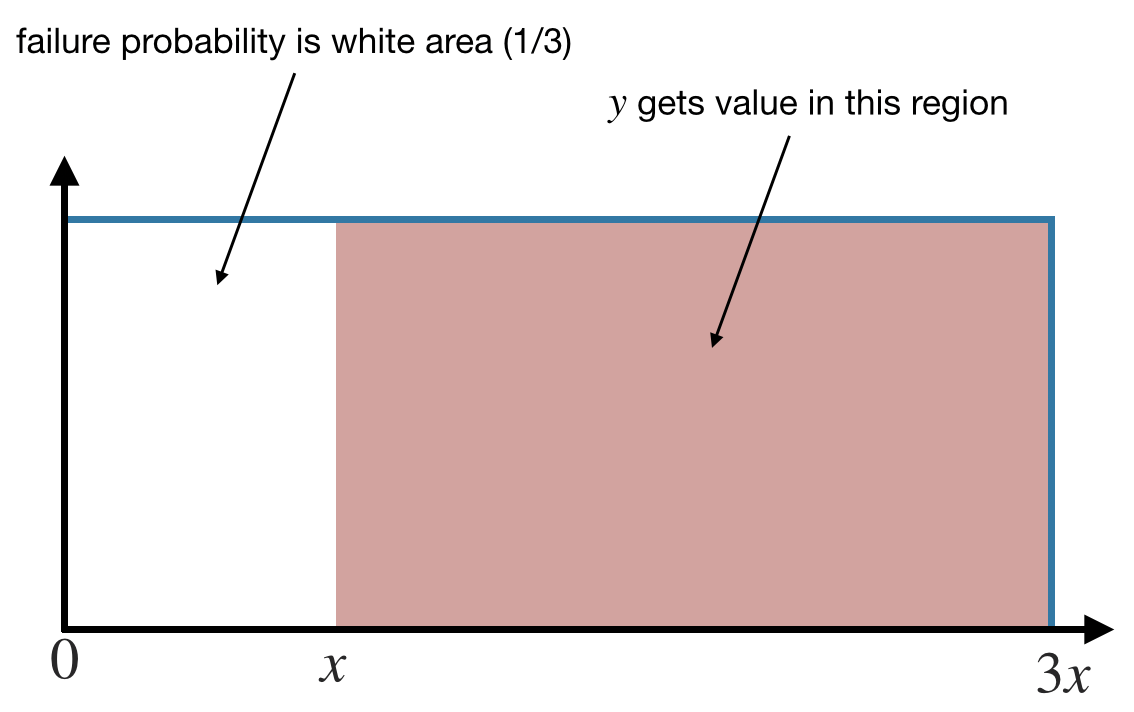
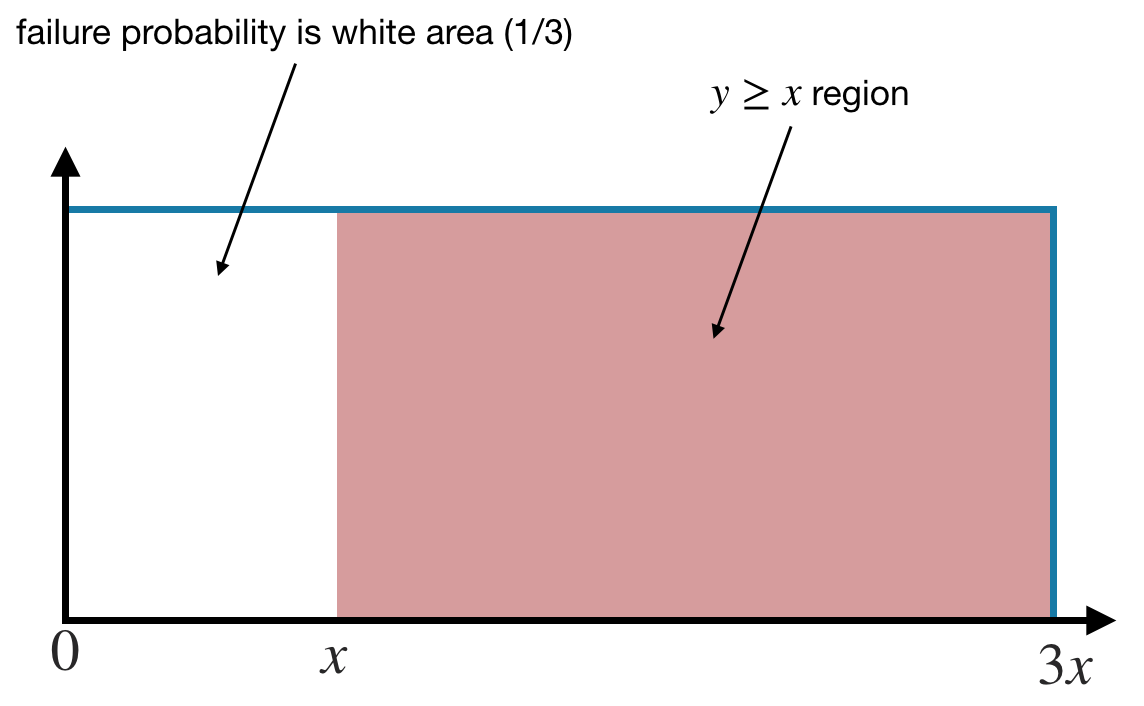
minor

diff --git a/2019/07/15/smt-probability/index.html b/2019/07/15/smt-probability/index.html
@@ -62,7 +62,7 @@ Take this program:</p>
     <span class="k">return</span> <span class="n">y</span>
 </code></pre></div></div>
 
-<p>If we’re working with infinite-precision integers, the following Hoare triple is valid—a positive input results in a positive output.</p>
+<p>If we’re working with infinite-precision integers, the following Hoare triple is valid — a positive input results in a positive output.</p>
 
 <script type="math/tex; mode=display">\vdash \{x > 0\}  ~f(x)~ \{y > 0\}</script>
 
@@ -101,7 +101,7 @@ In our example, the proof relies on the obvious fact that $y \geq x$ with a prob
 
 <p>If we know this fact, we can transform the program into a non-deterministic version that <em>tracks probability of failure</em>:</p>
 
-<div class="language-python highlighter-rouge"><div class="highlight"><pre class="highlight"><code><span class="k">def</span> <span class="nf">f_new</span><span class="p">(</span><span class="n">x</span><span class="p">):</span>
+<div class="language-python highlighter-rouge"><div class="highlight"><pre class="highlight"><code><span class="k">def</span> <span class="nf">f_nondet</span><span class="p">(</span><span class="n">x</span><span class="p">):</span>
     <span class="n">y</span> <span class="o">=</span> <span class="n">pick</span> <span class="n">a</span> <span class="n">value</span> <span class="ow">in</span> <span class="p">[</span><span class="n">x</span><span class="p">,</span><span class="o">...</span><span class="p">,</span><span class="mi">3</span><span class="o">*</span><span class="n">x</span><span class="p">]</span>
     <span class="n">w</span> <span class="o">=</span> <span class="mi">1</span><span class="o">/</span><span class="mi">3</span>
     <span class="k">return</span> <span class="n">y</span><span class="p">,</span><span class="n">w</span>
@@ -119,7 +119,7 @@ The transformation relies on the following insight:</p>
 
 <p>So now we can prove the above Hoare triple <script type="math/tex">\vdash_{\color{red}{1/3}} \{x > 0\}  ~f(x)~ \{y \geq x\}</script>  using the transformed, non-deterministic program instead:</p>
 
-<script type="math/tex; mode=display">(\underbrace{x > 0}_{\text{pre}} \land \underbrace{x \leq y \leq 3x  \land w = 1/3}_{\text{encoding of } f_\textit{new}}) \Longrightarrow (\underbrace{y > x}_{\text{post}} \land \underbrace{w \leq \color{red}{1/3}}_{\text{failure prob.}})</script>
+<script type="math/tex; mode=display">(\underbrace{x > 0}_{\text{pre}} \land \underbrace{x \leq y \leq 3x  \land w = 1/3}_{\text{encoding of } f_\textit{nondet}}) \Longrightarrow (\underbrace{y \geq x}_{\text{post}} \land \underbrace{w \leq \color{red}{1/3}}_{\text{failure prob.}})</script>
 
 <h2 id="picking-the-right-axioms">Picking the right axioms</h2>
 
@@ -128,7 +128,7 @@ But in general, we want to automatically discover the right axiom to get the pro
 Calvin’s insight was that we can see this as a <em>program synthesis</em> problem!</p>
 
 <p>The idea is to use an <em>axiom family</em> and synthesize the appropriate axiom from this family.
-Check out this parameterized version of <code class="highlighter-rouge">f_new</code> above:</p>
+Check out this parameterized version of <code class="highlighter-rouge">f_nondet</code> above:</p>
 
 <div class="language-python highlighter-rouge"><div class="highlight"><pre class="highlight"><code><span class="k">def</span> <span class="nf">f_synth</span><span class="p">(</span><span class="n">x</span><span class="p">):</span>
     <span class="n">y</span> <span class="o">=</span> <span class="n">pick</span> <span class="n">a</span> <span class="n">value</span> <span class="ow">in</span> <span class="p">[</span><span class="err">?</span><span class="mi">1</span><span class="p">,</span><span class="o">...</span><span class="p">,</span><span class="err">?</span><span class="mi">2</span><span class="p">]</span>
@@ -137,25 +137,43 @@ Check out this parameterized version of <code class="highlighter-rouge">f_new</c
 </code></pre></div></div>
 
 <p><code class="highlighter-rouge">?1</code> and <code class="highlighter-rouge">?2</code> are two unknown expressions that we want to synthesize; they define the assumption we are making.
-Depending on what we choose, we will <em>incur</em> a different probability of failure <code class="highlighter-rouge">w</code>.
-So now you can use your favorite program synthesis engine to synthesize values for the unknowns such that <script type="math/tex">y \geq x</script> and $w \leq 1/3$.</p>
+Depending on what we choose, we will <em>incur</em> a different probability of failure <code class="highlighter-rouge">w</code>.</p>
 
 <p><img src="https://barghouthi.github.io/assets/probability2.png" alt="Probability density function of axiom family" /></p>
 
-<p>Say we pick <code class="highlighter-rouge">2*x</code> and <code class="highlighter-rouge">3*x</code> for <code class="highlighter-rouge">?1</code> and <code class="highlighter-rouge">?2</code>.
+<p>So now you can use your favorite program synthesis engine to synthesize values for the unknowns such that <script type="math/tex">y \geq x</script> and $w \leq 1/3$. 
+Say we pick <code class="highlighter-rouge">2*x</code> and <code class="highlighter-rouge">3*x</code> for <code class="highlighter-rouge">?1</code> and <code class="highlighter-rouge">?2</code>.
 We get the following program:</p>
 
-<div class="language-python highlighter-rouge"><div class="highlight"><pre class="highlight"><code><span class="k">def</span> <span class="nf">f_synth</span><span class="p">(</span><span class="n">x</span><span class="p">):</span>
+<div class="language-python highlighter-rouge"><div class="highlight"><pre class="highlight"><code><span class="k">def</span> <span class="nf">f_synth_inst</span><span class="p">(</span><span class="n">x</span><span class="p">):</span>
     <span class="n">y</span> <span class="o">=</span> <span class="n">pick</span> <span class="n">a</span> <span class="n">value</span> <span class="ow">in</span> <span class="p">[</span><span class="mi">2</span><span class="o">*</span><span class="n">x</span><span class="p">,</span><span class="o">...</span><span class="p">,</span><span class="mi">3</span><span class="o">*</span><span class="n">x</span><span class="p">]</span>
     <span class="n">w</span> <span class="o">=</span> <span class="mi">2</span><span class="o">/</span><span class="mi">3</span>
     <span class="k">return</span> <span class="n">y</span><span class="p">,</span><span class="n">w</span>
 </code></pre></div></div>
 
-<p>This satisfies our postcondition—that $y \geq  x$—but with a failure probability of $2/3$ (higher than our goal of $1/3$).</p>
+<p>This satisfies our postcondition — that $y \geq  x$ — but with a failure probability of $2/3$, higher than our goal of $1/3$.
+The synthesizer should return the program <code class="highlighter-rouge">f_nondet</code> above,
+which sets <code class="highlighter-rouge">?1</code> to <code class="highlighter-rouge">x</code> and <code class="highlighter-rouge">?2</code> to <code class="highlighter-rouge">3*x</code>.</p>
+
+<h2 id="synthesis-problem">Synthesis problem</h2>
+
+<p>To solve the synthesis problem above with an SMT solver,
+we encode the problem in the form of <script type="math/tex">\exists.\forall .\varphi</script>:</p>
+
+<script type="math/tex; mode=display">\exists ?_1, ?_2 . \forall x,y,z,w .</script>
+
+<script type="math/tex; mode=display">(\underbrace{x > 0}_{\text{pre}} \land \underbrace{?_1 \leq y \leq ?_2  \land w = 1 - (?_2-?_1)/3x }_{\text{encoding of } f_\textit{synth}}) \Longrightarrow (\underbrace{y \geq x}_{\text{post}} \land \underbrace{w \leq \color{red}{1/3}}_{\text{failure prob.}})</script>
+
+<p>The idea is we want to find ($\exists$) solutions to the unknowns $?_1$ and $?_2$
+such that for any execution ($\forall$) where $x&gt;0$ the postcondition holds and the failure probability is no more than $1/3$.</p>
 
 <h2 id="conclusion">Conclusion</h2>
 
-<p>Our <a href="http://pages.cs.wisc.edu/~aws/papers/popl19.pdf">paper</a> gives a soundness-police-compliant view of this idea. We manage to automatically prove accuracy properties of some sophisticated algorithms from differential privacy.
+<p>That’s it. We’ve thrown probability away. 
+Now you can reason about randomized algorithms with first-order logic.
+But that’s not to say that solving the resulting formulas is easy!</p>
+
+<p>Our <a href="http://pages.cs.wisc.edu/~aws/papers/popl19.pdf">paper</a> gives a full-blow, soundness-police-compliant view of this idea – and a lot of implementation details because some of these formulas involve non-linear arithmetic. We manage to automatically prove accuracy properties of some sophisticated algorithms from the differential privacy literature.
 It’s really fascinating how far we can take SMT solvers.</p>
 <div class="footnotes">
   <ol>

diff --git a/2017/04/24/synthesis-primer/index.html b/2017/04/24/synthesis-primer/index.html
@@ -190,7 +190,6 @@ on <a href="http://github.com/barghouthi/704examples/blob/master/synthesis/synth
 
 <p>Finally, we are ready to invoke Z3:</p>
 
-<<<<<<< HEAD
 <div class="language-python highlighter-rouge"><div class="highlight"><pre class="highlight"><code><span class="c"># first, encode the universally quantified formula</span>
 <span class="c"># (the == symbol is if and only if)</span>
 <span class="n">encoding</span> <span class="o">=</span> <span class="n">ForAll</span><span class="p">([</span><span class="n">x</span><span class="p">,</span><span class="n">y</span><span class="p">],</span> <span class="n">phi_n</span> <span class="o">==</span> <span class="n">phi_s</span><span class="p">)</span>
@@ -200,17 +199,6 @@ on <a href="http://github.com/barghouthi/704examples/blob/master/synthesis/synth
 <span class="n">s</span><span class="o">.</span><span class="n">check</span><span class="p">()</span>
 <span class="c"># print the model (i.e., the value of h)</span>
 <span class="k">print</span> <span class="n">s</span><span class="o">.</span><span class="n">model</span><span class="p">()</span>
-=======
-<div class="language-python highlighter-rouge"><div class="highlight"><pre class="highlight"><code><span class="c1"># first, encode the universally quantified formula
-# (the == symbol is if and only if)
-</span><span class="n">encoding</span> <span class="o">=</span> <span class="n">ForAll</span><span class="p">([</span><span class="n">x</span><span class="p">,</span><span class="n">y</span><span class="p">],</span> <span class="n">phi_n</span> <span class="o">==</span> <span class="n">phi_s</span><span class="p">)</span>
-<span class="c1"># second, call Z3 and check if there is a model
-</span><span class="n">s</span> <span class="o">=</span> <span class="n">Solver</span><span class="p">()</span>
-<span class="n">s</span><span class="o">.</span><span class="n">add</span><span class="p">(</span><span class="n">encoding</span><span class="p">)</span>
-<span class="n">s</span><span class="o">.</span><span class="n">check</span><span class="p">()</span>
-<span class="c1"># print the model (i.e., the value of h)
-</span><span class="k">print</span> <span class="n">s</span><span class="o">.</span><span class="n">model</span><span class="p">()</span>
->>>>>>> b0688ab87d630995bbb75d5e557a3260963ca3d8
 </code></pre></div></div>
 
 <p>If you run this code, you will get the output <code class="highlighter-rouge">[h = 1]</code>,
@@ -232,7 +220,6 @@ position of the first 0 from the right occuring in <code class="highlighter-roug
 
 <p>For example,</p>
 
-<<<<<<< HEAD
 <div class="language-python highlighter-rouge"><div class="highlight"><pre class="highlight"><code><span class="c"># test 1</span>
 <span class="n">x</span> <span class="o">=</span> <span class="mo">00000000</span>
 <span class="n">y</span> <span class="o">=</span> <span class="mo">00000001</span>
@@ -242,17 +229,6 @@ position of the first 0 from the right occuring in <code class="highlighter-roug
 <span class="c"># test 3</span>
 <span class="n">x</span> <span class="o">=</span> <span class="mo">00000010</span>
 <span class="n">y</span> <span class="o">=</span> <span class="mo">00000001</span>
-=======
-<div class="language-python highlighter-rouge"><div class="highlight"><pre class="highlight"><code><span class="c1"># test 1
-</span><span class="n">x</span> <span class="o">=</span> <span class="mi">00000000</span>
-<span class="n">y</span> <span class="o">=</span> <span class="mi">00000001</span>
-<span class="c1"># test 2
-</span><span class="n">x</span> <span class="o">=</span> <span class="mi">00000011</span>
-<span class="n">y</span> <span class="o">=</span> <span class="mi">00000100</span>
-<span class="c1"># test 3
-</span><span class="n">x</span> <span class="o">=</span> <span class="mi">00000010</span>
-<span class="n">y</span> <span class="o">=</span> <span class="mi">00000001</span>
->>>>>>> b0688ab87d630995bbb75d5e557a3260963ca3d8
 </code></pre></div></div>
 
 <p>Suppose you have the following hunch on how to write
